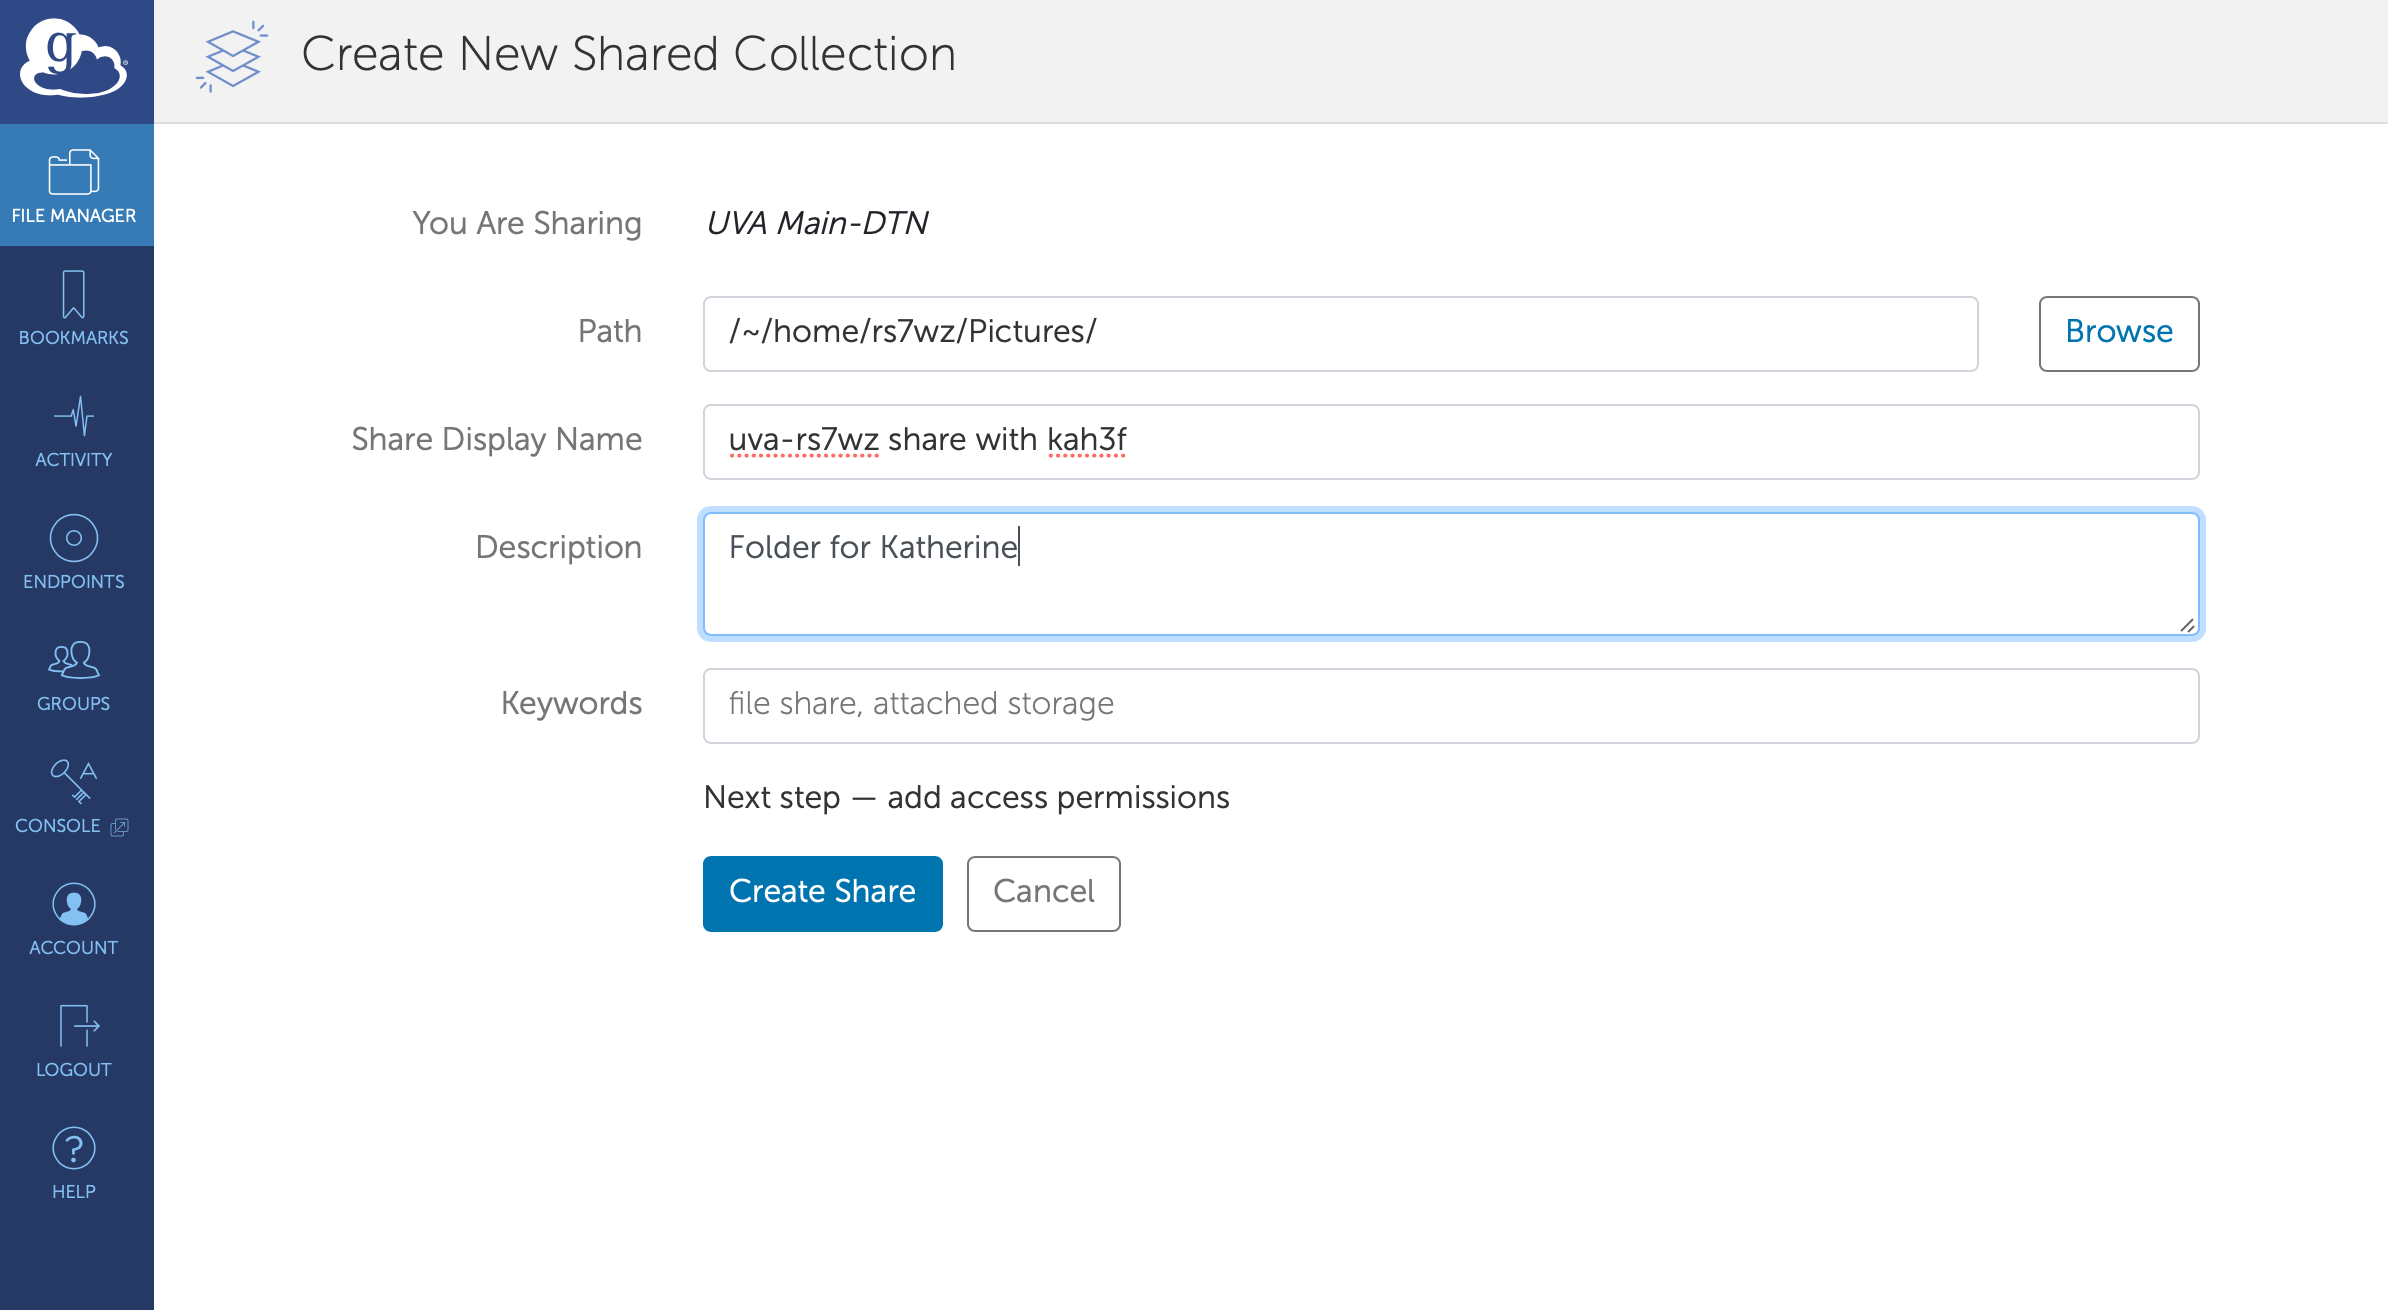
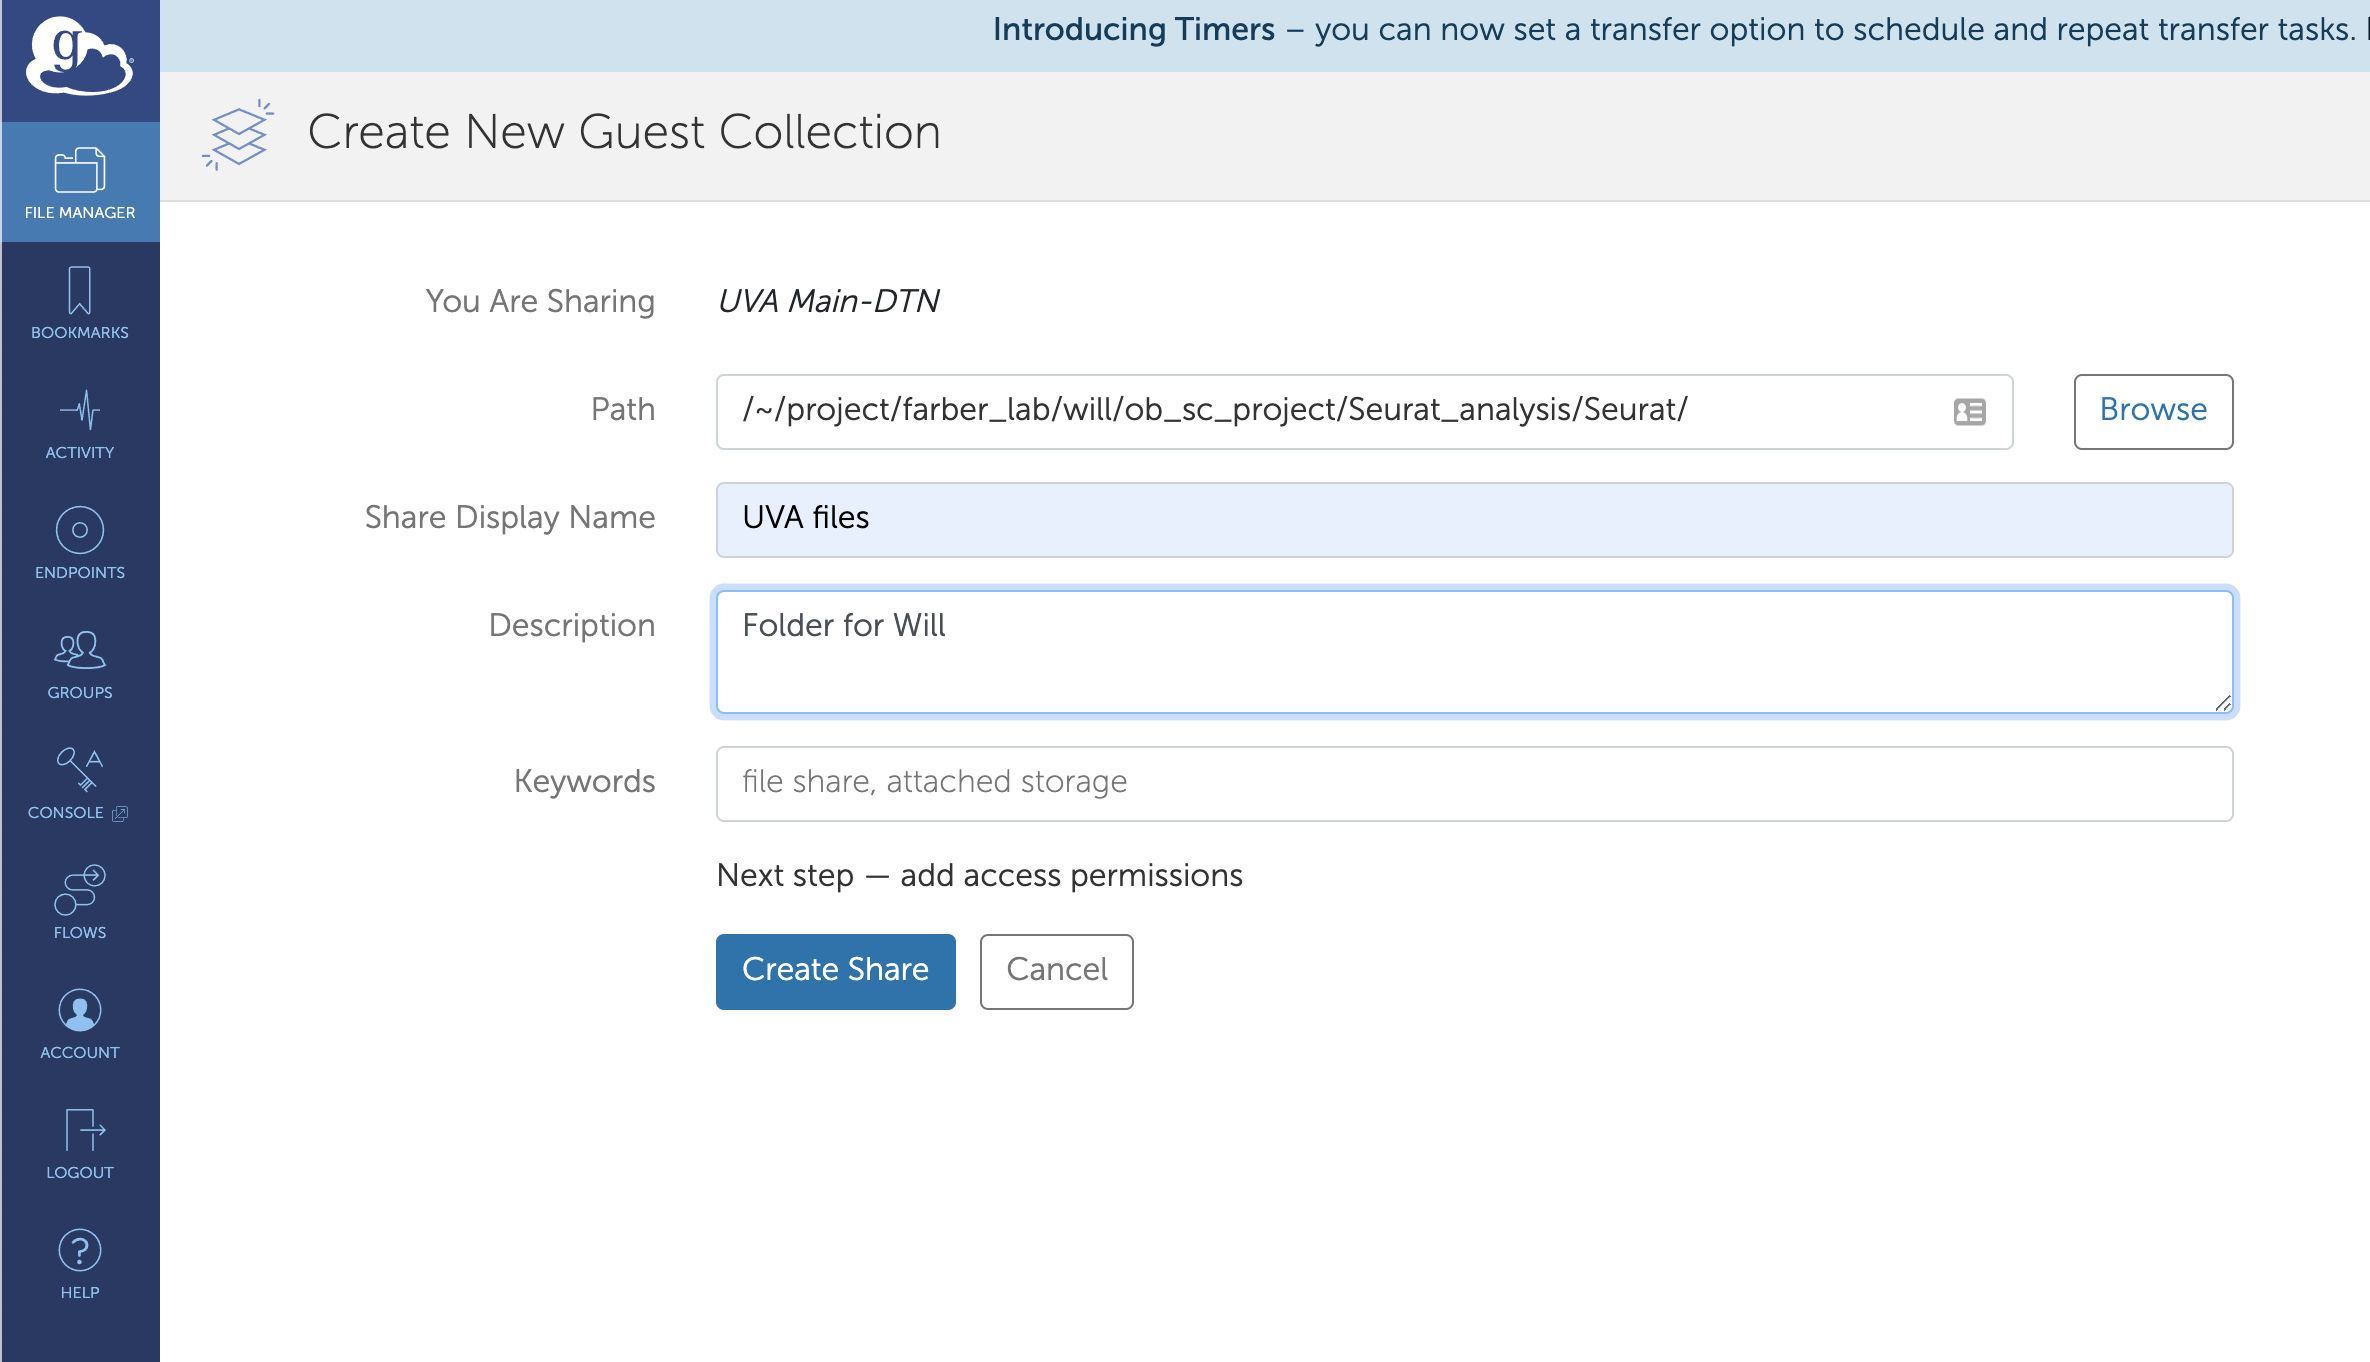
Update Globus

diff --git a/content/userinfo/globus.md b/content/userinfo/globus.md
@@ -148,12 +148,12 @@ You can share folders to either specific individuals, or to groups that you crea
 1. Open the [Globus web interface](https://www.globus.org/) and log in using UVA Netbadge.
 2. From the Transfer Files interface, log in to the UVA Main-DTN collection as described above.  
 3. Navigate in the folder structure of that collection until you find the folder you want to share. Highlight it.
-4. Next, select the Share link near the top of the files window.
+4. Next, select the Share link on the right side of the files window.
   <img src="/images/globus-shared-endpoint.png" width="700" height="443" alt="create-share">
-6. Globus regards shared folders as collections, so you must create a new collection to share the folder.  Clicking on Share allows you to "Add a Shared Endopint." You can only create and manage shared collections for directories or files that you own and can access. Provide a Display Share Name (required) and a description (optional).
-7. Click CREATE. Your new share will be created.
+6. Globus regards shared folders as collections, so you must create a new collection to share the folder.  Clicking on Share allows you to "Add a Guest Collection." You can only create and manage guest collections for directories or files that you own and can access. Provide a Display Share Name (required) and a description (optional).
+7. Click "Create Share". Your new share will be created.
   <img src="/images/globus-create-share.png" alt="create-share" width="700" height="536">
-8. Now click Add Permissions in the upper right. You _must_ go through this even if you do not change permissions from the default.
+8. Now click "Add Permissions - Share With" in the upper right. You _must_ go through this even if you do not change permissions from the default.
     - **Path** - Leave this set to `/` since it refers to the path relative to the directory you are sharing from.
     - **Share With** - Decide whether you want to share with individual users or with a group. **Please do not** set this to "All Users" or "Public". If you share with an individual user, follow the instructions below. If you choose to share with a group, you will first need to create that and add users to it by using the GROUPS tab at the top of the page.
     - **Identity/E-mail** - You can look up other Globus users by searching for a part of their name or institution. If you cannot find the individual, you should contact them to make sure they have signed into Globus at least once. Generally, users at other colleges and universities can be identified with the simple form of their email address, like `mst3k@virginia.edu` or `jdoe@mit.edu`, etc. Users who are unaffiliated with a university can still sign into Globus using Google (identified as `username@gmail.com`) or by creating a username and password in Globus (identified as `userid@globusid.org`)  
